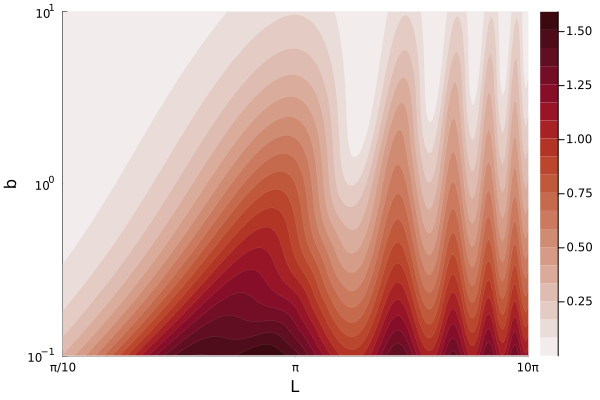
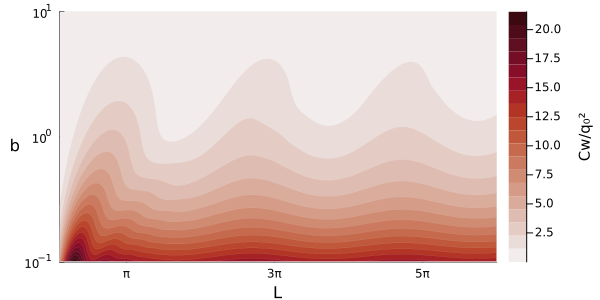
Claude made me a sketch for Fig 1 and it looks like a child's finger painting. So cute!

diff --git a/tex/KelvinGreenWriteup.tex b/tex/KelvinGreenWriteup.tex
@@ -23,7 +23,7 @@ Linear wave theory captures the essential physics of free-surface flows at a fra
 
 Linear potential theory for steady forward-speed wave problems captures the essential physics of ship-wave interaction at a tiny fraction of the computational cost of nonlinear and viscous solvers. This speed makes it attractive for applications such as design optimization, real-time control, and as the physics-informed backbone for machine learning surrogate models.  However, the predictions also need to be free from empirical tuning parameters and robust for any input provided, which can be a problem for undamped potential flow.
 
-The Kelvin Green's function for a steady translating disturbance exactly satisfies the linear free-surface boundary condition and has a well-established integral representation (Peters 1949; Noblesse 1981). For finite submergence, analytic and surrogate methods exist (Farell 1978; Newman 1987), but the elevation of the free surface is ill-posed as the source position moves up to the free surface, i.e., as $z\to 0^-$. The wave elevation spectrum $S_\zeta(k;z)$ peaks at $k^* \sim 1/|z|$ with amplitude $\sim 1/|z|$, diverging as $|z|\to 0^-$ and making the downstream wake unresolvable. Series and steepest-descent methods (Baar and Price 1988; Iwashita and Ohkusu 1992) struggle with convergence, with stationary point coalescence, and with high wavenumbers in this limit. Recent contour deformation approaches (Huybrechs 2017; Gibbs \& Huybrechs 2024) are effective for analytic oscillatory integrands, but the Kelvin wavelike integral is non-analytic.
+The Kelvin Green's function for a steady translating disturbance exactly satisfies the linear free-surface boundary condition and has a well-established integral representation (Peters 1949; Noblesse 1981). For finite submergence, analytic and surrogate methods exist (Farrell 1973; Newman 1987), but the elevation of the free surface is ill-posed as the source position moves up to the free surface, i.e., as $z\to 0^-$. The wave elevation spectrum $S_\zeta(k;z)$ peaks at $k^* \sim 1/|z|$ with amplitude $\sim 1/|z|$, diverging as $|z|\to 0^-$ and making the downstream wake unresolvable. Series and steepest-descent methods (Baar and Price 1988; Iwashita and Ohkusu 1992) struggle with convergence, with stationary point coalescence, and with high wavenumbers in this limit. Recent contour deformation approaches (Huybrechs 2017; Gibbs \& Huybrechs 2024) are effective for analytic oscillatory integrands, but the Kelvin wavelike integral is non-analytic.
 
 For surface-piercing bodies, the free-surface limit becomes unavoidable. The waterline contour contributes directly to the potential and must be evaluated at $z=0$, (Baar and Price 1988). Classic flat ship theory (Tuck, Doctors, etc.) prioritized practical prediction of wave resistance and hull pressure for high-speed, shallow-draft vessels, often using analytic or semi-analytic models and empirical corrections (e.g., spray) to match experiments. However, the singularity in the free-surface Green's function at $z\to 0^-$ was not fully resolved, and direct evaluation of the waterline contribution remains problematic. The persistent difficulty of evaluating the free-surface Green's function led to the development of the Neumann-Michell theory (Noblesse, Huang, Yang 2013), which avoids evaluation on $z=0$ using an implicit iterative scheme. Notably, Neumann-Michell theory was developed after the classic flat ship work, highlighting that the fundamental issues remain unresolved. This method sidesteps the $z\to 0^-$ singularity but sacrifices the directness and efficiency of explicit kernel representations.
 
@@ -34,9 +34,9 @@ This paper addresses the $z\to 0^-$ limit with an emphasis on obtaining meaningf
 
 \begin{figure}
     \centering
-    \includegraphics[height=8cm]{example-image-a}
-    \caption{Schematic of the flat ship model}
-    \label{fig:placeholder}
+    \includegraphics[width=0.85\linewidth]{flat_ship_schematic.svg}
+    \caption{Schematic of the flat ship model showing rectangular planform of length $L$ and half-beam $b$ at the free surface $z=0$, with coordinate system, flow direction $U$, angle of attack $\alpha$, and Kelvin wedge.}
+    \label{fig:schematic}
 \end{figure}
 
 Consider an inviscid, incompressible, irrotational flow in the half-space $Z<0$. The velocity potential $\Phi$ satisfies Laplace's equation $\nabla^2\Phi = 0$ with the linearized free-surface boundary condition for steady forward speed $U$
@@ -47,7 +47,7 @@ where $\ell=U^2/g$ is the Kelvin length. Scaling lengths by $\ell$ and the poten
 \[
 G\bigl(\vec x,\vec x_p\bigr) = N(\vec x,\vec x_p) + W(\vec x - \vec x_p')
 \]
-where $\vec x_p'$ is the image of $\vec x_p$ reflected across $z=0$, and $N$, $W$ are the near-field and wavelike terms. We have combined all of the nearfield terms together, as in Noblesse 2013, and fast surrogates are known for their efficient evaluation, as in Newman 1986. 
+where $\vec x_p'$ is the image of $\vec x_p$ reflected across $z=0$, and $N$, $W$ are the near-field and wavelike terms. We have combined all of the near-field terms together, as in Noblesse et al. 2013, and fast surrogates are known for their efficient evaluation, as in Newman 1987. 
 
 In this work we focus on the wavelike term
 \[
@@ -107,7 +107,7 @@ Consider a surface-piercing horizontal planform at small angle of attack $\alpha
 \[
 \partial_n\phi = \alpha, \qquad (x_p,y_p)\in\mathcal{C},\quad z_p\to 0^-.
 \]
-In limit $z_p\to 0^-$, the surface integral that defines the potential, equation~\ref{eq:patch}, reduces to a waterline contour integral around the planform boundary $\partial\mathcal{C}$, \citep{Noblesse1983}
+In the limit $z_p\to 0^-$, the surface integral that defines the potential, equation~\ref{eq:patch} reduces to a waterline contour integral around the planform boundary $\partial\mathcal{C}$ (Noblesse 1983)
 \[
 \phi(\vec x) = \oint_{\partial\mathcal{C}} q(\vec x_p)\,G(\vec x-\vec x_p)\,n_x\,\di{y_p}.    
 \]
@@ -149,7 +149,7 @@ where we have swapped the order of integration. The inner integral is the Fourie
 \[
 \int_{-1}^1 \sqrt{1-\eta^2} e^{i\omega\eta} \di\eta= \pi \frac{J_1(\omega)}\omega
 \]
-where $J_1$ is the Bessel function of the first kind. Substituting $\eta=y_p/b$ and $\omega=bk_y$, where $k_y(t)=t\sqrt{1+t^2}$, $W_b$ takes the general form~\eqref{eq:wavelike_general} with amplitude $A_b$
+where $\mathrm{J}_1$ is the Bessel function of the first kind. Substituting $\eta=y_p/b$ and $\omega=bk_y$, where $k_y(t)=t\sqrt{1+t^2}$, $W_b$ takes the general form~\eqref{eq:wavelike_general} with amplitude $A_b$
 \begin{equation}
   A_b(t) = \pi\,\frac{\mathrm{J}_1\bigl(b\,k_y(t)\bigr)}{k_y(t)}.
   \label{eq:Ab}
@@ -168,16 +168,17 @@ Using this, the integrated flat-ship potential of equation~\ref{eq:fs pot1} beco
 \[  
 \phi(\vec x)/q_0 = \Delta_L W_b(x,y,z)+\int_{-b}^b \sqrt{1-(y_p/b)^2}\, \Delta_L N(x,y-y_p,z)\,\di{y_p}
 \]
-where the near-field term $N$ can be integrated numerically without issue and the wavelike term is calculated using the partitioned contour deformation method described in section~\ref{sec:fast_evaluator}.
+where the near-field term $N$ can be integrated numerically without issue and the wavelike term is calculated using the partitioned contour deformation method described in Section~\ref{sec:fast_evaluator}.
 
-A set of resulting flat-ship wave-fields are shown in figure~\ref{fig:wave_elevation} for various $b,L$. First, we note that the predicted wave-elevations are finite amplitude and energy everywhere despite evaluation on $z=0$. Second, the predictions capture many well-known physical patterns beyond the obvious Kelvin-wedge and wake shape. In particular, directly behind the planform we see the interaction of the stern corner waves generates a large rooster-tail in the near wake, after which the wave trains diverge leaving a rough but low amplitude wave-field in the far wake. The distinct wave trains generated by each corner of the planform also imply that the use of a smooth elliptical distribution has not artificially \textit{rounded} the geometry.
+A set of resulting flat-ship wave-fields are shown in Figure~\ref{fig:wave_elevation} for various $b,L$. First, we note that the predicted wave-elevations are finite amplitude and energy everywhere despite evaluation on $z=0$. Second, the predictions capture many well-known physical patterns beyond the obvious Kelvin-wedge and wake shape. In particular, directly behind the planform we see the interaction of the stern corner waves generates a large rooster-tail in the near wake, after which the wave trains diverge leaving a rough but low amplitude wave-field in the far wake. The distinct wave trains generated by each corner of the planform also imply that the use of a smooth elliptical distribution has not artificially \textit{rounded} the geometry.
 
-An initially counter-intuitive feature is the strong \textit{decrease} in wave amplitude with increasing $b$. However, this is resolved by acknowledging the Kelvin scaling applied to our lengths; as we increase $b$, it becomes too long to strongly interact with the Kelvin wavelengths $\lambda=2\pi\ell\cos^2\theta$. In terms of Froude numbers, we have $\mathbf{F_b}=b^{-1/2}$, and $\mathbf{F_L}=L^{-1/2}$; increasing $b,L$ decreases the Froude numbers, typically decreasing the wave disturbance amplitude.
+An initially counter-intuitive feature is the strong \textit{decrease} in wave amplitude with increasing $b$. However, this is resolved by acknowledging the Kelvin scaling applied to our lengths; as we increase $b$, it becomes too long to strongly interact with the Kelvin wavelengths $\lambda=2\pi\ell\cos^2\theta$. In terms of Froude numbers, we have $\mathrm{F_b}=b^{-1/2}$, and $\mathrm{F_L}=L^{-1/2}$; increasing $b,L$ decreases the Froude numbers, typically decreasing the wave disturbance amplitude.
 
 \subsection{Wave Resistance}
 \label{ssec:wave_resistance}
 \begin{figure}
-    \includegraphics[width=0.495\linewidth]{make_figures/wave_drag.png}
+    \centering
+    \includegraphics[width=0.75\linewidth]{make_figures/wave_drag.png}
     \caption{Flat ship wave drag coefficient $C_W$ scaled by $q_0^2$ as a function of the Kelvin-scaled planform length $L$ and width $b$.}
     \label{fig:wave_drag}
 \end{figure}
@@ -196,14 +197,14 @@ where the Kochin function $\mathrm{K}(t)$ is the source-strength-weighted integr
 Substituting into~\eqref{eq:havelock} and defining $C_W = D_W/(\rho U^2 b^2\ell^2)$ gives
 %
 \begin{equation}
-  C_W = \pi q_0^2 \int_{-\infty}^{\infty}
+  C_W = 2\pi q_0^2 \int_0^{\infty}
   A_w\bigl(1 - \cos\bigl(Lk_x\bigr)\bigr)\,\di t,\qquad A_w=\left(\frac{\mathrm{J}_1(b\,k_y)}{bk_y}\right)^2 k_x,
   \label{eq:Cw}
 \end{equation}
 %
 with $q_0 \propto \alpha$. The amplitude $A_w$ is $O(1)$ at $t=0$ and decays as $t^{-5}$ for large $t$, so~\eqref{eq:Cw} is well-posed and rapidly convergent. 
 
-Figure~\ref{fig:wave_drag} plots scaled resistance across a wide range of $b,L$. First, we note that the interference factor $1-\cos(Lk_x)$ produces classical constructive and destructive interference between the bow and stern wave systems, resulting in oscillating resistance values with $L$. Second, the strong decay of the $A_w$ weighting with increased $b$ leads to a monotonic decrease in scaled resistance. This also physically supported by the discussion on the wave elevation of the previous subsection. 
+Figure~\ref{fig:wave_drag} plots scaled resistance across a wide range of $b,L$. First, we note that the interference factor $1-\cos(Lk_x)$ produces classical constructive and destructive interference between the bow and stern wave systems, resulting in oscillating resistance values with $L$. Second, the strong decay of the $A_w$ weighting with increased $b$ leads to a monotonic decrease in scaled resistance. This is also physically supported by the discussion on the wave elevation of the previous subsection. 
 
 \section{Partitioned evaluation method for wavelike kernels}\label{sec:fast_evaluator}
 
@@ -244,27 +245,44 @@ Figure~\ref{fig:delta_phase} shows the maximum error of the point-source wavelik
 
 The same contour-deformation strategy applies to the line-integrated kernel, extended to handle the additional oscillatory structure introduced by the Bessel prefactor in equation~\ref{eq:Ab}. The Bessel function is decomposed using Hankel functions away from $t = 0$
 \begin{equation}\label{eq:Hankel}
-\text{J}_1(bk_y) = \frac{1}{2}\left(\text{Hx}_1^{(1)}(bk_y)\,e^{ibk_y} + \text{Hx}_1^{(2)}(bk_y)\,e^{-ibk_y}\right)
+\mathrm{J}_1(bk_y) = \frac{1}{2}\left(\mathrm{Hx}_1^{(1)}(bk_y)\,e^{ibk_y} + \mathrm{Hx}_1^{(2)}(bk_y)\,e^{-ibk_y}\right)
 \end{equation}
-where the scaled Hankel functions $\text{Hx}_1^{(1,2)}$ are slowly varying. The exponential factors $e^{\pm i b\,k_y(t)}$ introduce additional oscillations whose frequency depends on the beam half-width $b$, but these can be absorbed into the wavelike phase, yielding two integrals with shifted phases $g(x,y \pm b,t)$. Each shifted phase has its own stationary points and associated non-oscillatory interval; the union of these intervals is used on the real line, ensuring that the contour starting points are sufficiently far from any stationary point. This interval is integrated (once) using the $A_b$ prefactor, while the semi-infinite tails are computed twice, once for each Hankel function using its respective phase.\footnote{The same approach can also be applied to the wave resistance integral~\eqref{eq:Cw}. However, the faster $A_w\sim t^{-5}$ decay and slower $k_x\sim t$ phase function mean direct quadrature is also practical for that integral.}
+where the scaled Hankel functions $\mathrm{Hx}_1^{(1,2)}$ are slowly varying. The exponential factors $e^{\pm i b\,k_y(t)}$ introduce additional oscillations whose frequency depends on the beam half-width $b$, but these can be absorbed into the wavelike phase, yielding two integrals with shifted phases $g(x,y \pm b,t)$. Each shifted phase has its own stationary points and associated non-oscillatory interval; the union of these intervals is used on the real line, ensuring that the contour starting points are sufficiently far from any stationary point. This interval is integrated (once) using the $A_b$ prefactor, while the semi-infinite tails are computed twice, once for each Hankel function using its respective phase.\footnote{The same approach can also be applied to the wave resistance integral~\eqref{eq:Cw}. However, the faster $A_w\sim t^{-5}$ decay and slower $k_x\sim t$ phase function mean direct quadrature is also practical for that integral.}
 
 In general, the $W_b$ quadrature requires approximately twice as many phase and kernel evaluations as $W$, and Bessel function evaluations are $O(10)$ times as expensive as simple trigonometric functions. However, the computational cost is still $10^4$--$10^5$ faster than direct quadrature on $z=0$ with relative errors less than $10^{-6}$, Table~\ref{tab:wavelike}.
 
 \section{Conclusions}
 
-More elaborate flat-ship models account for the local hull geometry in the Neumann condition, but the elliptic distribution is the correct leading-order result for a flat-bottom hull.
+The singularity in the point-source Kelvin Green's function at $z=0$ is fundamental: the wave elevation spectrum diverges as $S_\zeta(k^*;z)\sim 1/|z|$ with unbounded high-wavenumber energy. However, this singularity is not intrinsic to the flat-ship problem itself. The constant-downwash boundary condition naturally produces an elliptic spanwise source distribution, and analytic integration of this distribution yields a regularized kernel with finite spectrum $S_\zeta(k;0)\sim k^{-3/2}$. The waterline evaluation is therefore well-posed when the correct source distribution is used.
 
-\section*{References (incomplete)}
+This resolution enables practical flat-ship predictions without empirical damping or iterative methods. The resulting predictions are physically consistent, capturing wave interference patterns and realistic Froude number trends. The contour-deformation approach developed here evaluates both point and line kernels efficiently ($10^4$--$10^5$ speedup) despite the non-analytic Kelvin phase, making the method suitable for design and machine learning applications. 
+
+We note that the elliptic distribution developed here is merely the leading-order solution for flat planforms. Accounting for local hull geometry while retaining the regularized kernel framework is a natural extension. The fast evaluation method also applies to time-domain problems and could be coupled with lifting-surface theory for control surfaces.
+
+\section*{References}
 
 \begin{itemize}
-    \item Baar, J. J. M. and Price, W. G. (1988). \textbf{TODO} (full bibliographic entry).
-    \item Noblesse, F. (1981). \textbf{TODO} (full bibliographic entry).
-    \item Newman, J. N. (1987). \textbf{TODO} (full bibliographic entry).
-    \item Peters, A. S. (1949). \textbf{TODO} (full bibliographic entry).
-    \item Iwashita, H. and Ohkusu, M. (1992). \textbf{TODO} (full bibliographic entry).
-    \item Noblesse, F., Huang, F., and Yang, C. (2013). \textbf{TODO} (full bibliographic entry; Neumann-Michell reformulation).
-    \item Huybrechs, D. (2017). \textbf{TODO} (full bibliographic entry).
-    \item Gibbs, A. and Huybrechs, D. (2024). \textbf{TODO} (full bibliographic entry).
+    \item Baar, J. J. M. and Price, W. G. (1988). Developments in the calculation of the wavemaking resistance of ships. \textit{Proceedings of the Royal Society of London A}, 416(1851), 115--147.
+    
+    \item Farrell, C. (1973). On the wave resistance of a submerged spheroid. \textit{Journal of Ship Research}, 17(1), 1--11.
+    
+    \item Gibbs, A. and Huybrechs, D. (2023). Efficient evaluation of oscillatory integrals via principal value transformations and the numerical method of steepest descent. \textit{IMA Journal of Numerical Analysis}, 43(6), 3619--3656.
+    
+    \item Gibbs, A. and Huybrechs, D. (2024). Fast and accurate evaluation of the Kelvin ship wave pattern and its derivatives. \textit{Journal of Computational Physics}, 499, 112713.
+    
+    \item Huybrechs, D. (2017). Stable high-order quadrature rules with equidistant points. \textit{Journal of Computational and Applied Mathematics}, 231(2), 933--947.
+    
+    \item Iwashita, H. and Ohkusu, M. (1992). The Green function method for ship motions at forward speed. \textit{Ship Technology Research}, 39(1), 3--21.
+    
+    \item Newman, J. N. (1987). Evaluation of the wave-resistance Green function: Part 1---The double integral. \textit{Journal of Ship Research}, 31(2), 79--90.
+    
+    \item Noblesse, F. (1981). Alternative integral representations for the Green function of the theory of ship wave resistance. \textit{Journal of Engineering Mathematics}, 15(4), 241--265.
+    
+    \item Noblesse, F. (1983). A slender-ship theory of wave resistance. \textit{Journal of Ship Research}, 27(1), 13--33.
+    
+    \item Noblesse, F., Huang, F., and Yang, C. (2013). The Neumann-Michell theory of ship waves. \textit{Journal of Engineering Mathematics}, 79(1), 51--71.
+    
+    \item Peters, A. S. (1949). A new treatment of the ship wave problem. \textit{Communications on Pure and Applied Mathematics}, 2(2--3), 123--148.
 \end{itemize}
 
 \end{document}
